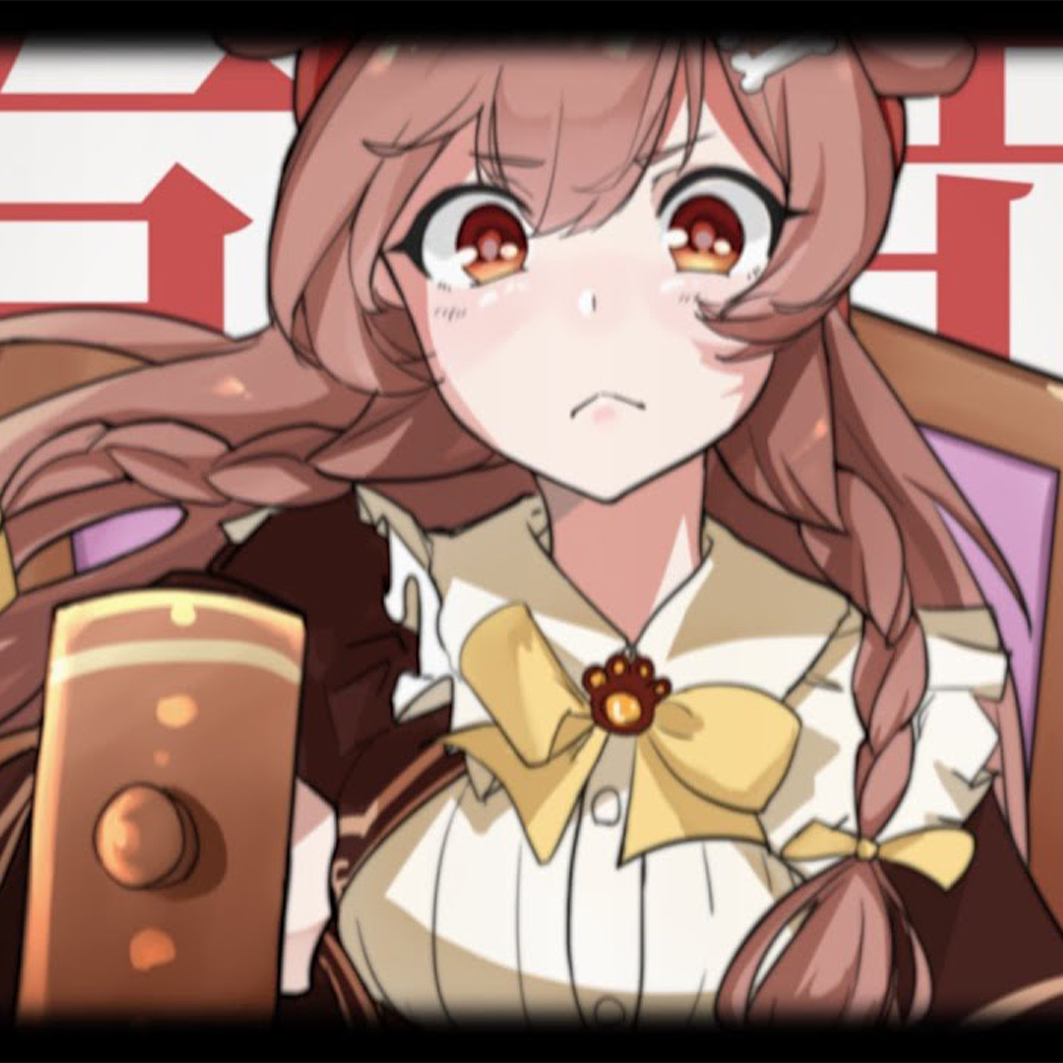
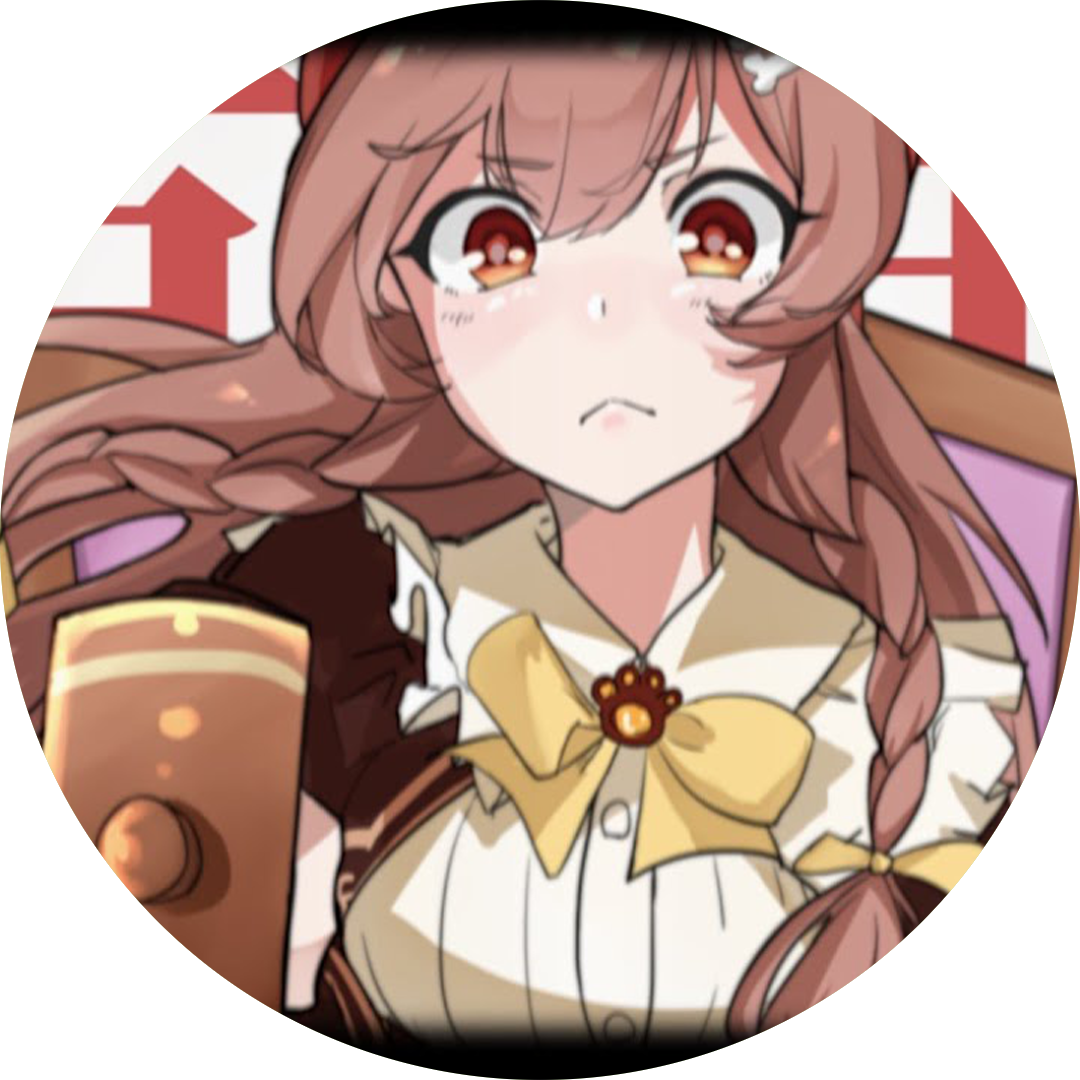
修改圖片

diff --git a/assets/js/player.js b/assets/js/player.js
@@ -1,19 +1,15 @@
 //創建一個音樂播放器的類 單例模式
 class Player {
-    constructor() { //類的構造函數
-        //如果類已經有實例了，就返回這個實例
+    constructor() { 
+       
         if (Player.instance) return Player.instance;
-        //如果没有實例化，就去構造一個實例
+       
         return this.getInstance(...arguments);
     }
 
     //構建實例
     getInstance() {
         let instance = new PlayerCreator(...arguments);
-        //讓實例可以使用到Player的原型的屬性方法
-        // instance.__proto__=Player.prototype;
-        // instance.constructor=Player;
-        //把構建好的實例掛在Player類上
         Player.instance = instance;
         return instance;
     }
@@ -114,7 +110,7 @@ class Musics {
                     title: 'magnet/宝鐘マリン・潤羽るしあ',
                     singer: '宝鐘マリン&潤羽るしあ',
                     songUrl: './songs/magnet宝鐘マリン潤羽るしあcover (Houshou Marine and Uruha Rushia).mp3',
-                    imageUrl: '../images/song/magnet宝鐘マリン潤羽るしあcover (Houshou Marine and Uruha Rushia).png'
+                    imageUrl: './images/song/magnet宝鐘マリン潤羽るしあcover (Houshou Marine and Uruha Rushia).png'
 
                 },
                 {
@@ -122,35 +118,35 @@ class Musics {
                     title: 'ゴーストルール天音かなた(Cover)',
                     singer: '天音かなた',
                     songUrl: './songs/ゴーストルール天音かなた(Cover).mp3',
-                    imageUrl: '../images/song/ゴーストルール天音かなた(Cover).png'
+                    imageUrl: './images/song/ゴーストルール天音かなた(Cover).png'
                 },
                 {
                     id: 15,
                     title: '恋愛裁判　Ver.戌神ころね',
                     singer: '戌神ころね',
                     songUrl: './songs/恋愛裁判　Ver.戌神ころね.mp3',
-                    imageUrl: '../images/song/恋愛裁判　Ver.戌神ころね.png'
+                    imageUrl: './images/song/恋愛裁判　Ver.戌神ころね.png'
                 },
                 {
                     id: 16,
                     title: '失礼しますがRIP',
                     singer: 'Calliope Mori',
                     songUrl: './songs/[ORIGINAL SONG] 失礼しますがRIP Excuse My Rudeness, But Could You Please RIP - Calliope Mori.mp3',
-                    imageUrl: '../images/song/[ORIGINAL SONG] 失礼しますがRIP Excuse My Rudeness, But Could You Please RIP - Calliope Mori.png'
+                    imageUrl: './images/song/[ORIGINAL SONG] 失礼しますがRIP Excuse My Rudeness, But Could You Please RIP - Calliope Mori.png'
                 },
                 {
                     id: 17,
                     title: '曇天羊角巻わため feat.Calliope Moriオリジナル曲',
                     singer: '角巻わため',
                     songUrl: './songs/曇天羊角巻わため feat.Calliope Moriオリジナル曲.mp3',
-                    imageUrl: '../images/song/曇天羊角巻わため feat.Calliope Moriオリジナル曲.png'
+                    imageUrl: './images/song/曇天羊角巻わため feat.Calliope Moriオリジナル曲.png'
                 },
                 {
                     id: 18,
                     title: 'ゾンビランドサガフランシュシュ佐賀事変(Cover)',
                     singer: '星街すいせい&Hololive三期生',
                     songUrl: './songs/ゾンビランドサガフランシュシュ佐賀事変 星街すいせい with ホロライブファンタジー(Cover).mp3',
-                    imageUrl: '../images/song/ゾンビランドサガフランシュシュ佐賀事変 星街すいせい with ホロライブファンタジー(Cover).png'
+                    imageUrl: './images/song/ゾンビランドサガフランシュシュ佐賀事変 星街すいせい with ホロライブファンタジー(Cover).png'
                 },
                 {
                     id: 19,

diff --git a/assets/css/player.css b/assets/css/player.css
@@ -134,8 +134,8 @@
 .music-player__image {
     text-align: center;
     width: 70%;
-    height: 57.225%;
-    border-radius: 50%;
+    height: 54%;
+    
     position: absolute;
     overflow: hidden;
     left: 0;
